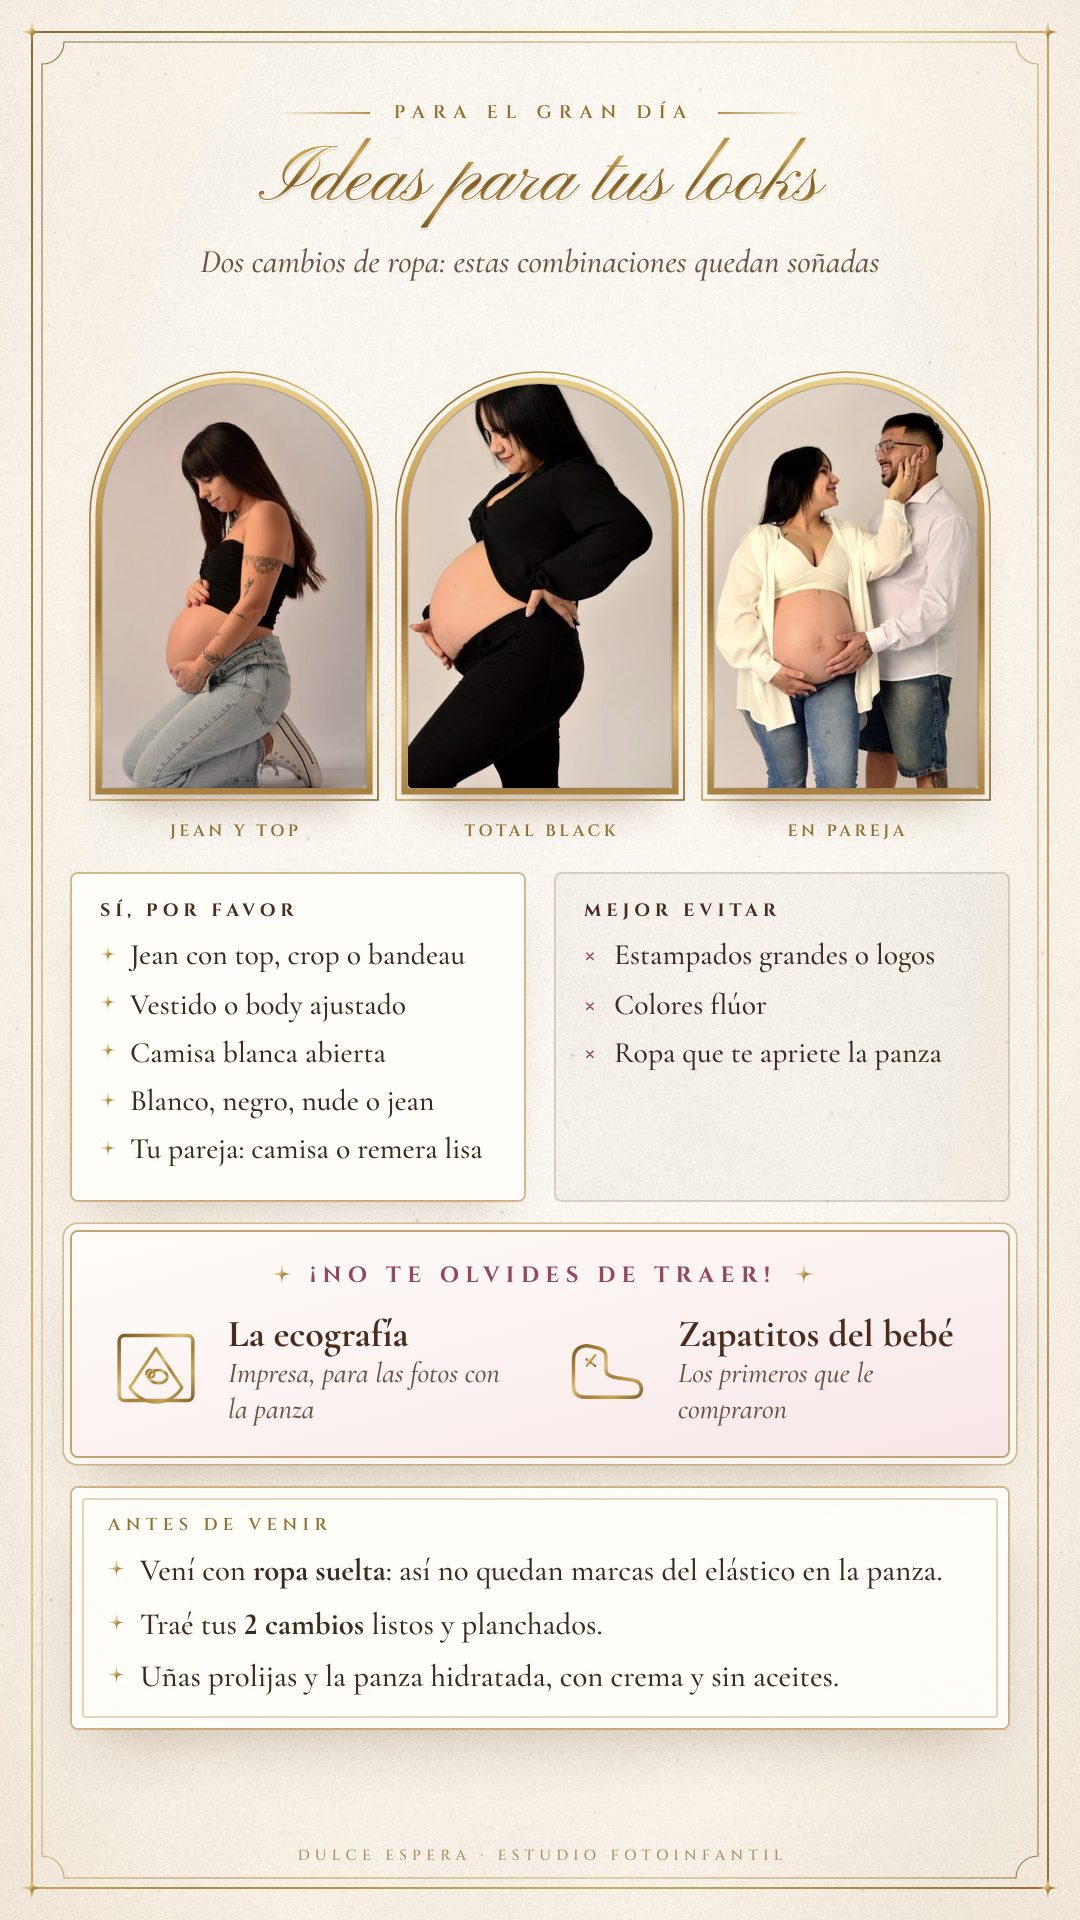
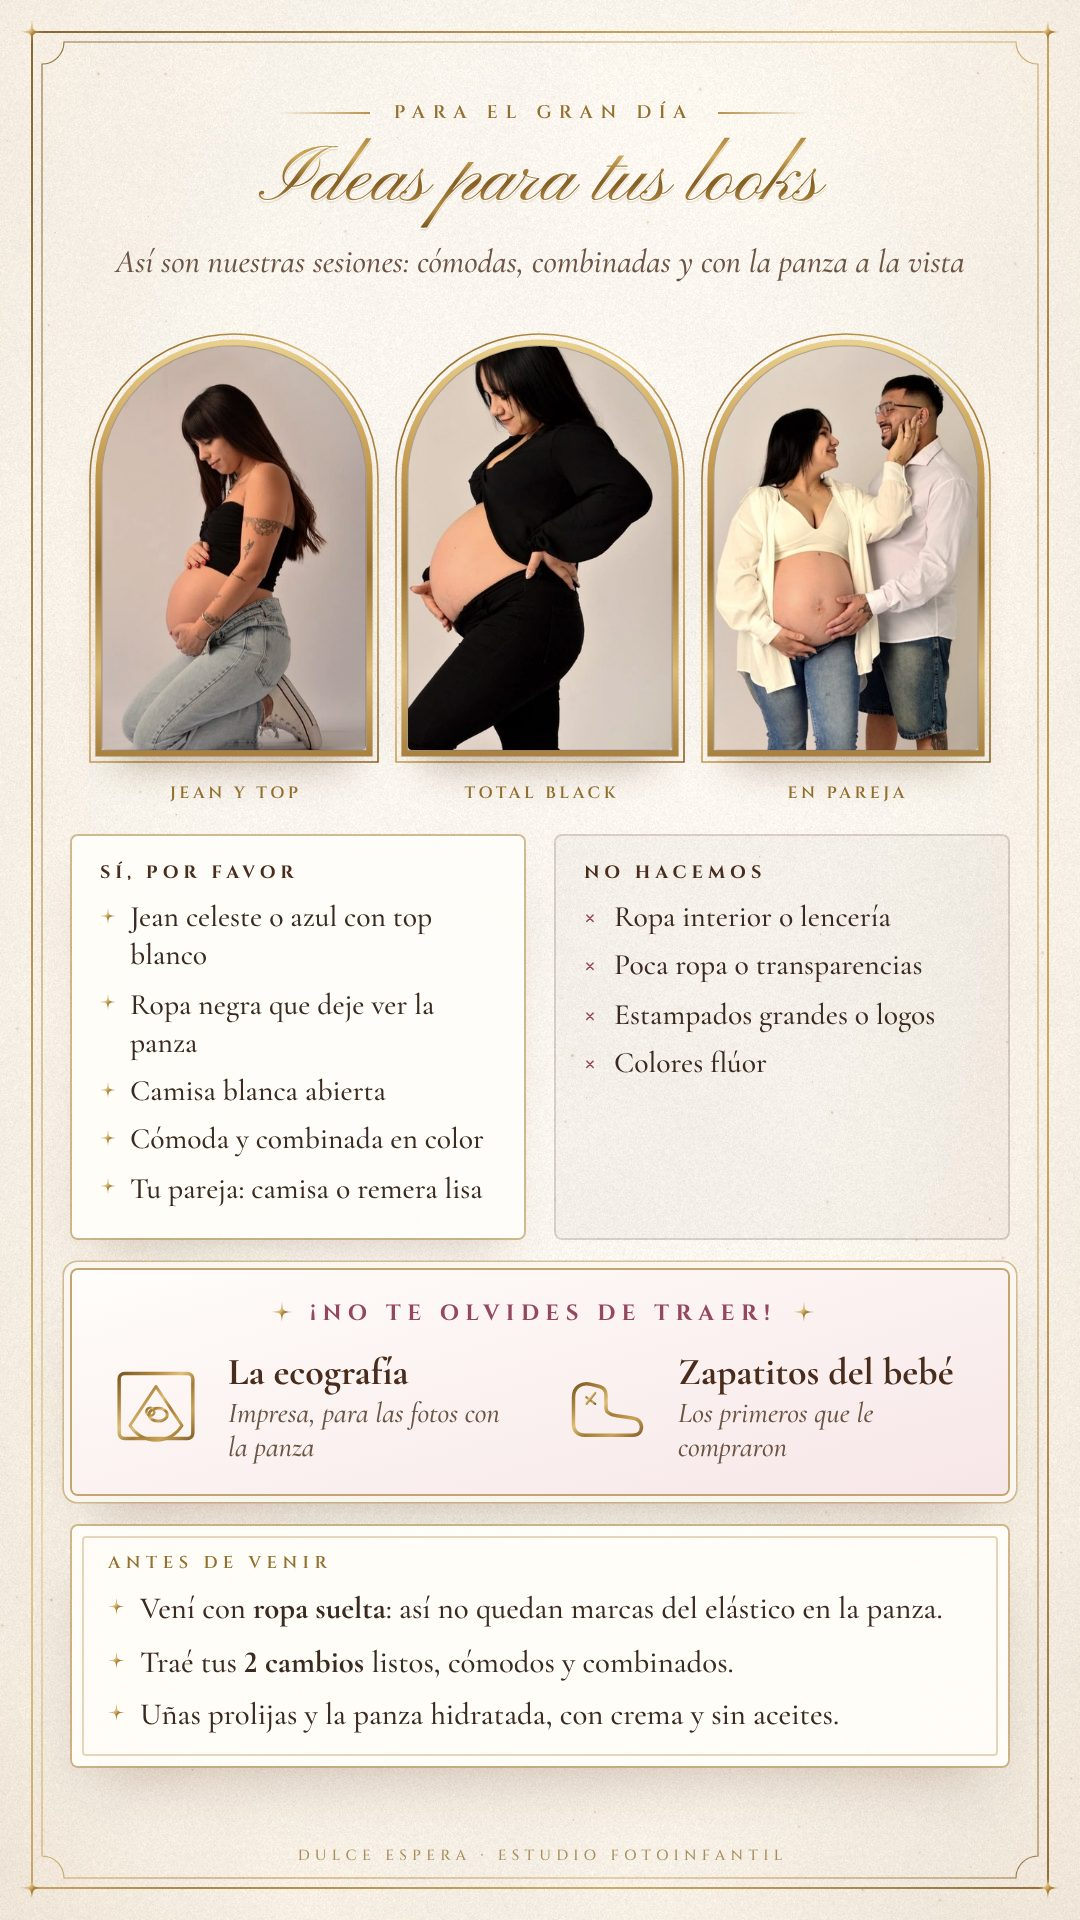
Maternidad: guía de ropa (cómoda, combinada, sin ropa interior) y FAQ
Claude-Session: https://claude.ai/code/session_016rWcWKPNL1gNVstxUwshhh

Changed region(s): [[0.0611, 0.125, 0.9472, 0.9375], [0.8556, 0.125, 0.8861, 0.1562]]

diff --git a/maternidad/index.html b/maternidad/index.html
@@ -11,13 +11,13 @@
 <meta property="og:site_name" content="Estudio Fotoinfantil">
 <meta property="og:title" content="Dulce espera · Una propuesta para tu sesión de embarazo">
 <meta property="og:description" content="Sesión de fotos de embarazo en Estudio Fotoinfantil · Un recuerdo para toda la vida">
-<meta property="og:image" content="https://estudiofotoinfantil.github.io/WebEstudio/maternidad/og.jpg?v=0769d122">
+<meta property="og:image" content="https://estudiofotoinfantil.github.io/WebEstudio/maternidad/og.jpg?v=91c0bc54">
 <meta property="og:image:width" content="1200">
 <meta property="og:image:height" content="630">
 <meta property="og:url" content="https://estudiofotoinfantil.github.io/WebEstudio/maternidad/">
 <meta name="twitter:card" content="summary_large_image">
-<link rel="icon" type="image/png" href="assets/favicon.png?v=0769d122">
-<link rel="apple-touch-icon" href="assets/apple-touch-icon.png?v=0769d122">
+<link rel="icon" type="image/png" href="assets/favicon.png?v=91c0bc54">
+<link rel="apple-touch-icon" href="assets/apple-touch-icon.png?v=91c0bc54">
 <link rel="preload" href="fonts/ballet-static-400.woff2" as="font" type="font/woff2" crossorigin>
 <link rel="preload" href="fonts/pinyon-script-latin-400-normal.woff2" as="font" type="font/woff2" crossorigin>
 <link rel="preload" href="fonts/cormorant-ln-500-italic.woff2" as="font" type="font/woff2" crossorigin>
@@ -43,8 +43,8 @@
   window.__fitK = k;
 })();
 </script>
-<script>window.NAV_V='0769d122';</script>
-<script src="config.js?v=0769d122"></script>
+<script>window.NAV_V='91c0bc54';</script>
+<script src="config.js?v=91c0bc54"></script>
 <style>
 @font-face{font-family:"Ballet";src:url(fonts/ballet-static-400.woff2) format("woff2");font-weight:400;font-display:block}
 @font-face{font-family:"Pinyon";src:url(fonts/pinyon-script-latin-400-normal.woff2) format("woff2");font-display:block}
@@ -1028,7 +1028,7 @@ html.measuring .web-only{display:none!important}
   <text x="234.0" y="44.7" text-anchor="middle" font-family="Pinyon" font-weight="400" font-size="40" fill="#ffffff" opacity=".9">Ideas para tus looks</text>
   <text x="234.0" y="44" text-anchor="middle" font-family="Pinyon" font-weight="400" font-size="40" fill="url(#tD)">Ideas para tus looks</text>
 </svg></div>
-  <div class="sub">Dos cambios de ropa: estas combinaciones quedan soñadas</div>
+  <div class="sub">Así son nuestras sesiones: cómodas, combinadas y con la panza a la vista</div>
   
 </div>
   <div class="mid" style="gap:16px">
@@ -1058,9 +1058,9 @@ html.measuring .web-only{display:none!important}
     </div>
     <div class="dd">
       <div class="col yes"><div class="h">SÍ, POR FAVOR</div><ul>
-        <li><svg viewBox="-1 -1 2 2" aria-hidden="true"><use href="#star4" x="-1" y="-1" width="2" height="2" fill="url(#gD)"/></svg>Jean con top, crop o bandeau</li><li><svg viewBox="-1 -1 2 2" aria-hidden="true"><use href="#star4" x="-1" y="-1" width="2" height="2" fill="url(#gD)"/></svg>Vestido o body ajustado</li><li><svg viewBox="-1 -1 2 2" aria-hidden="true"><use href="#star4" x="-1" y="-1" width="2" height="2" fill="url(#gD)"/></svg>Camisa blanca abierta</li><li><svg viewBox="-1 -1 2 2" aria-hidden="true"><use href="#star4" x="-1" y="-1" width="2" height="2" fill="url(#gD)"/></svg>Blanco, negro, nude o jean</li><li><svg viewBox="-1 -1 2 2" aria-hidden="true"><use href="#star4" x="-1" y="-1" width="2" height="2" fill="url(#gD)"/></svg>Tu pareja: camisa o remera lisa</li>
+        <li><svg viewBox="-1 -1 2 2" aria-hidden="true"><use href="#star4" x="-1" y="-1" width="2" height="2" fill="url(#gD)"/></svg>Jean celeste o azul con top blanco</li><li><svg viewBox="-1 -1 2 2" aria-hidden="true"><use href="#star4" x="-1" y="-1" width="2" height="2" fill="url(#gD)"/></svg>Ropa negra que deje ver la panza</li><li><svg viewBox="-1 -1 2 2" aria-hidden="true"><use href="#star4" x="-1" y="-1" width="2" height="2" fill="url(#gD)"/></svg>Camisa blanca abierta</li><li><svg viewBox="-1 -1 2 2" aria-hidden="true"><use href="#star4" x="-1" y="-1" width="2" height="2" fill="url(#gD)"/></svg>Cómoda y combinada en color</li><li><svg viewBox="-1 -1 2 2" aria-hidden="true"><use href="#star4" x="-1" y="-1" width="2" height="2" fill="url(#gD)"/></svg>Tu pareja: camisa o remera lisa</li>
       </ul></div>
-      <div class="col no"><div class="h">MEJOR EVITAR</div><ul><li><span class="x">×</span>Estampados grandes o logos</li><li><span class="x">×</span>Colores flúor</li><li><span class="x">×</span>Ropa que te apriete la panza</li></ul></div>
+      <div class="col no"><div class="h">NO HACEMOS</div><ul><li><span class="x">×</span>Ropa interior o lencería</li><li><span class="x">×</span>Poca ropa o transparencias</li><li><span class="x">×</span>Estampados grandes o logos</li><li><span class="x">×</span>Colores flúor</li></ul></div>
     </div>
     <div class="mustbring">
       <div class="k"><svg viewBox="-1 -1 2 2" aria-hidden="true"><use href="#star4" x="-1" y="-1" width="2" height="2" fill="url(#gD)"/></svg>¡NO TE OLVIDES DE TRAER!<svg viewBox="-1 -1 2 2" aria-hidden="true"><use href="#star4" x="-1" y="-1" width="2" height="2" fill="url(#gD)"/></svg></div>
@@ -1074,7 +1074,7 @@ html.measuring .web-only{display:none!important}
     <div class="ivory tipsbox">
       <div class="k">ANTES DE VENIR</div>
       <ul class="tips" style="margin-top:7px">
-        <li class="body-t star-li" style="margin-bottom:5px"><svg viewBox="-1 -1 2 2" aria-hidden="true"><use href="#star4" x="-1" y="-1" width="2" height="2" fill="url(#gD)"/></svg>Vení con <b>ropa suelta</b>: así no quedan marcas del elástico en la panza.</li><li class="body-t star-li" style="margin-bottom:5px"><svg viewBox="-1 -1 2 2" aria-hidden="true"><use href="#star4" x="-1" y="-1" width="2" height="2" fill="url(#gD)"/></svg>Traé tus <b>2 cambios</b> listos y planchados.</li><li class="body-t star-li" style="margin-bottom:5px"><svg viewBox="-1 -1 2 2" aria-hidden="true"><use href="#star4" x="-1" y="-1" width="2" height="2" fill="url(#gD)"/></svg>Uñas prolijas y la panza hidratada, con crema y sin aceites.</li>
+        <li class="body-t star-li" style="margin-bottom:5px"><svg viewBox="-1 -1 2 2" aria-hidden="true"><use href="#star4" x="-1" y="-1" width="2" height="2" fill="url(#gD)"/></svg>Vení con <b>ropa suelta</b>: así no quedan marcas del elástico en la panza.</li><li class="body-t star-li" style="margin-bottom:5px"><svg viewBox="-1 -1 2 2" aria-hidden="true"><use href="#star4" x="-1" y="-1" width="2" height="2" fill="url(#gD)"/></svg>Traé tus <b>2 cambios</b> listos, cómodos y combinados.</li><li class="body-t star-li" style="margin-bottom:5px"><svg viewBox="-1 -1 2 2" aria-hidden="true"><use href="#star4" x="-1" y="-1" width="2" height="2" fill="url(#gD)"/></svg>Uñas prolijas y la panza hidratada, con crema y sin aceites.</li>
       </ul>
     </div>
   </div>
@@ -1190,6 +1190,8 @@ html.measuring .web-only{display:none!important}
       
       <div class="qa"><div class="q"><svg viewBox="-1 -1 2 2" aria-hidden="true"><use href="#star4" x="-1" y="-1" width="2" height="2" fill="url(#gD)"/></svg>¿Cuánto dura la sesión?</div><div class="a">De 30 a 45 minutos, tranquila y con todas las pausas que necesites.</div></div>
       
+      <div class="qa"><div class="q"><svg viewBox="-1 -1 2 2" aria-hidden="true"><use href="#star4" x="-1" y="-1" width="2" height="2" fill="url(#gD)"/></svg>¿Cómo son las fotos?</div><div class="a">Como las de esta propuesta: naturales, con jean o ropa negra y la panza a la vista. No hacemos fotos en ropa interior ni con poca ropa.</div></div>
+      
       <div class="qa"><div class="q"><svg viewBox="-1 -1 2 2" aria-hidden="true"><use href="#star4" x="-1" y="-1" width="2" height="2" fill="url(#gD)"/></svg>¿Puede venir mi pareja?</div><div class="a">¡Sí! La sesión puede ser sola o en pareja, al mismo valor.</div></div>
       
       <div class="qa"><div class="q"><svg viewBox="-1 -1 2 2" aria-hidden="true"><use href="#star4" x="-1" y="-1" width="2" height="2" fill="url(#gD)"/></svg>¿Qué tengo que traer?</div><div class="a">2 cambios de ropa, la ecografía impresa y unos zapatitos del bebé. ¡No te los olvides: con ellos salen las fotos más tiernas!</div></div>
@@ -1280,6 +1282,6 @@ html.measuring .web-only{display:none!important}
 </div>
 <div class="toast" id="toast" role="status" aria-live="polite"></div>
 
-<script src="app.js?v=0769d122" defer></script>
+<script src="app.js?v=91c0bc54" defer></script>
 </body>
 </html>
